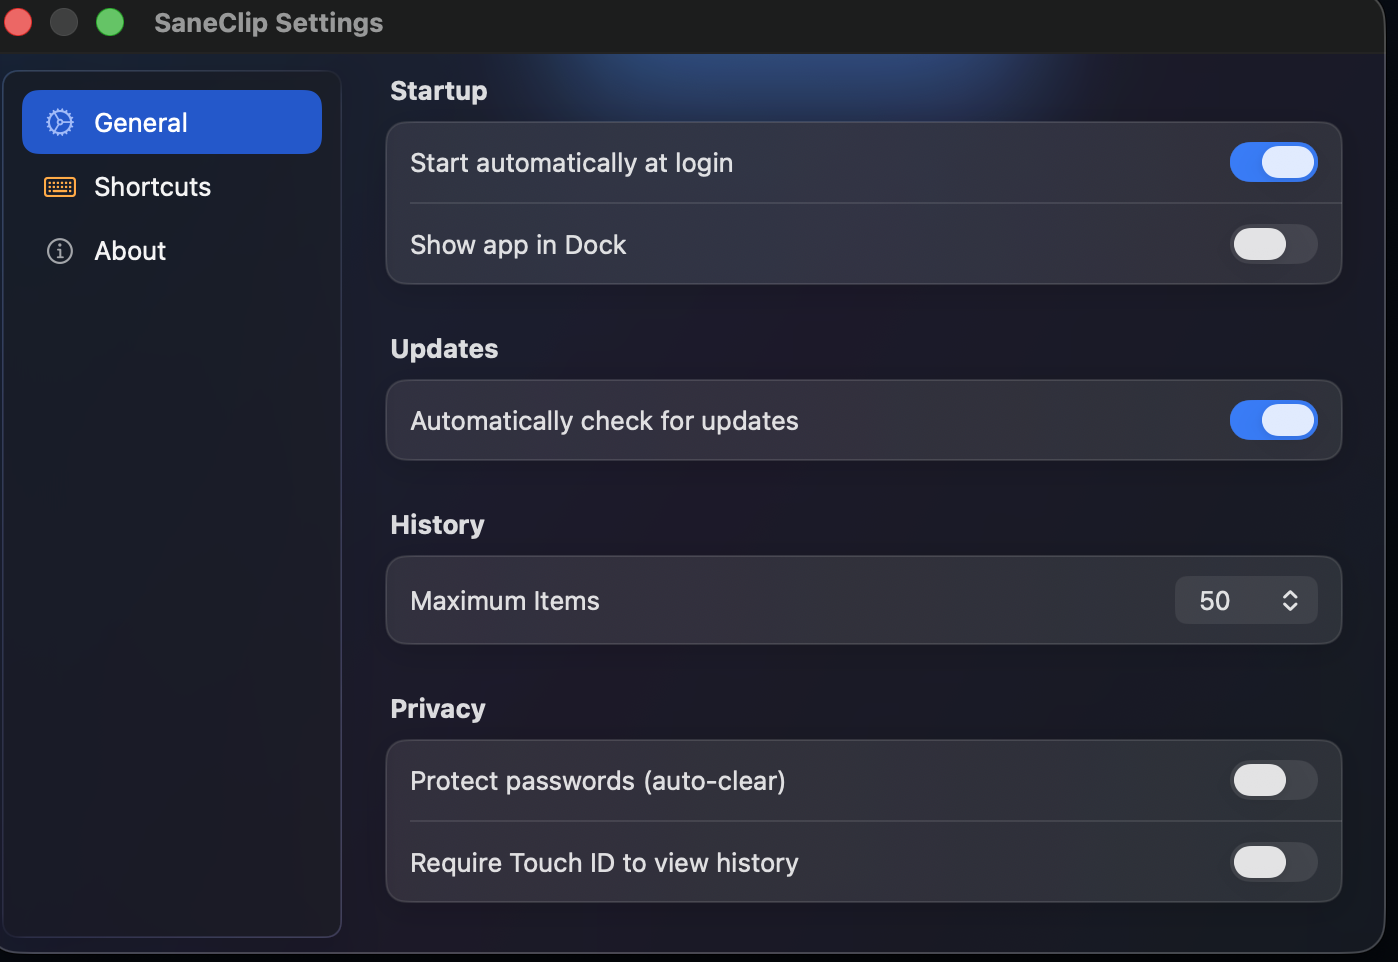
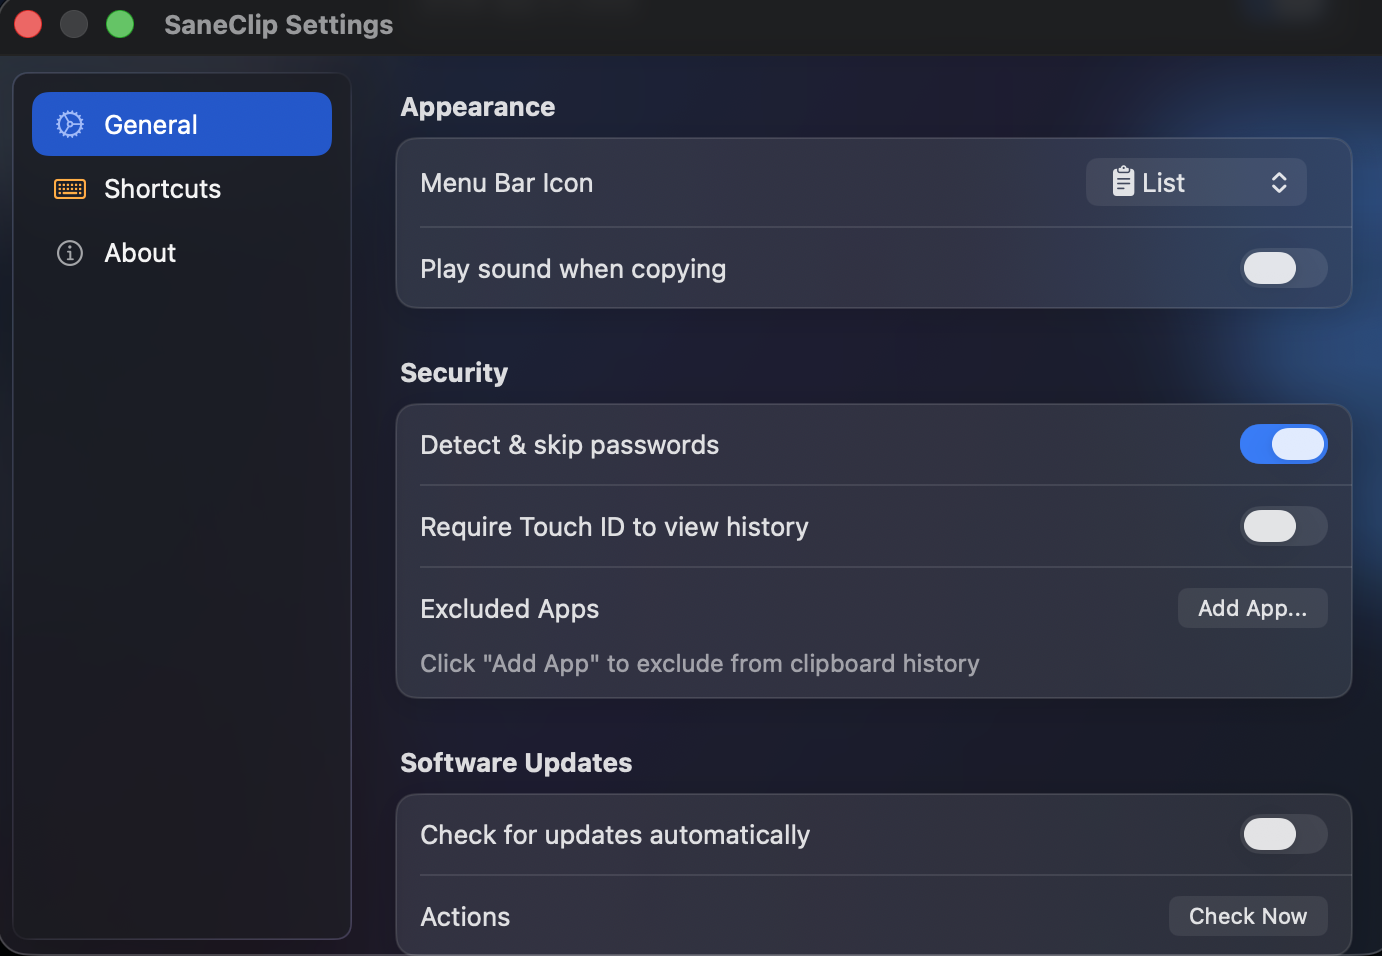
Fix installation order and update screenshots
- README: Direct Download (Recommended), Homebrew as alternative
- README: Added 'free updates for life' messaging
- Updated screenshot-settings.png with new labels

diff --git a/README.md b/README.md
@@ -44,15 +44,15 @@ Built with SwiftUI. Looks right at home on Sonoma, Sequoia, and Tahoe.
 
 ## Installation
 
-### Homebrew (Recommended)
+### Direct Download (Recommended)
+
+Download the latest DMG from [saneclip.com](https://saneclip.com) — **$5 one-time, free updates for life.**
+
+### Homebrew
 
 ```bash
 brew install stephanjoseph/saneclip/saneclip
 ```
-
-### Direct Download
-
-Download the latest DMG from [saneclip.com](https://saneclip.com) — $5 one-time purchase.
 
 ---
 
